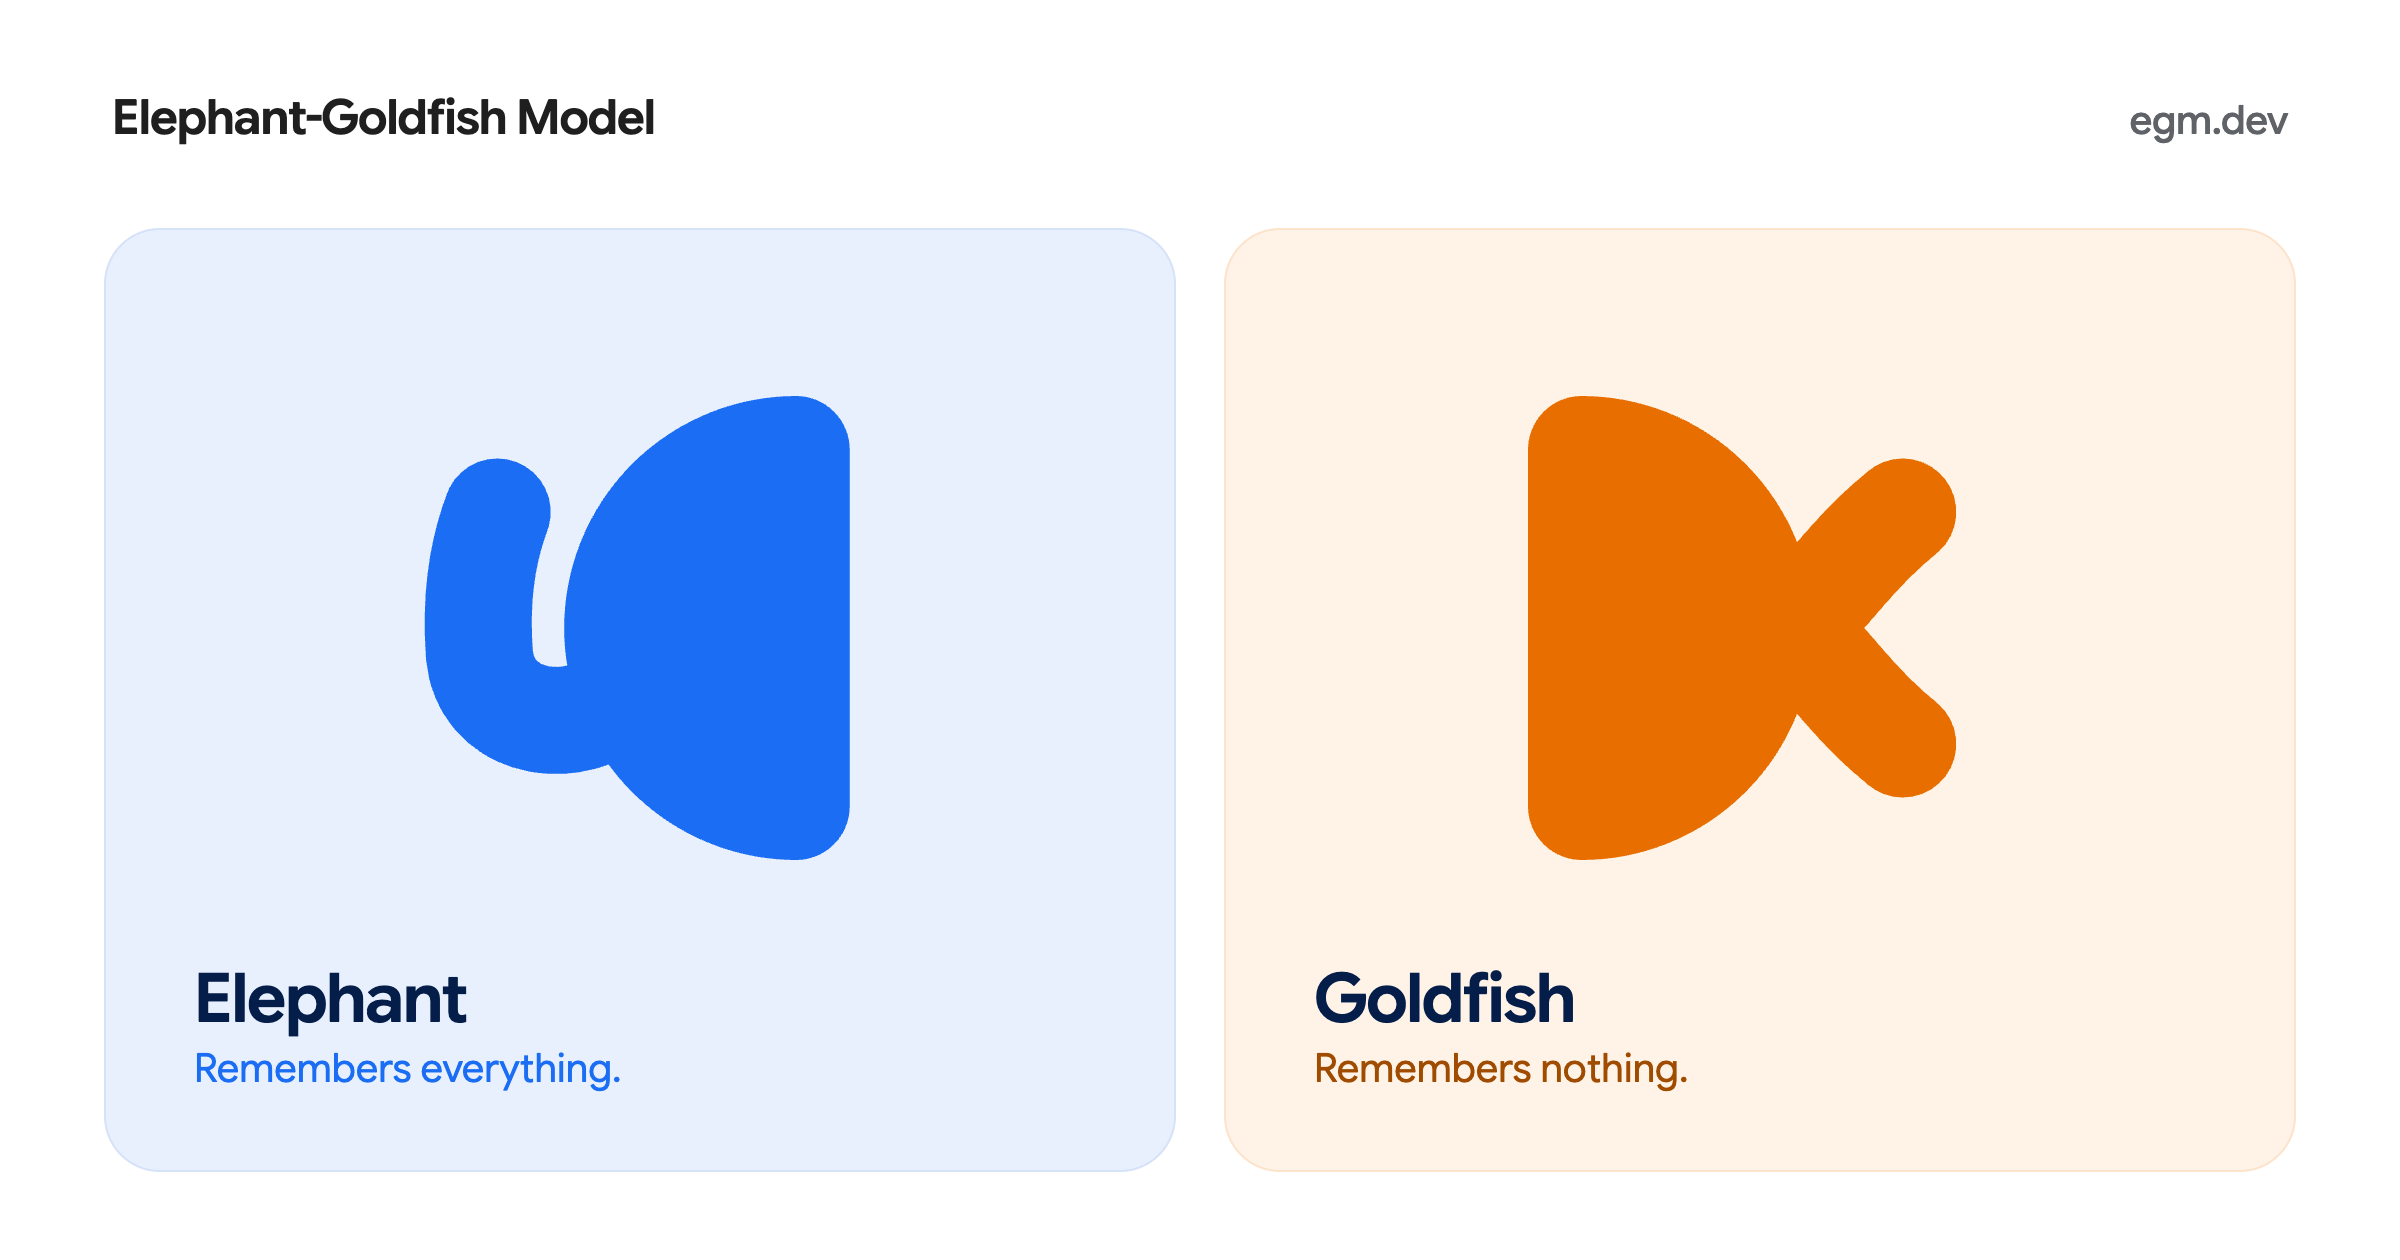
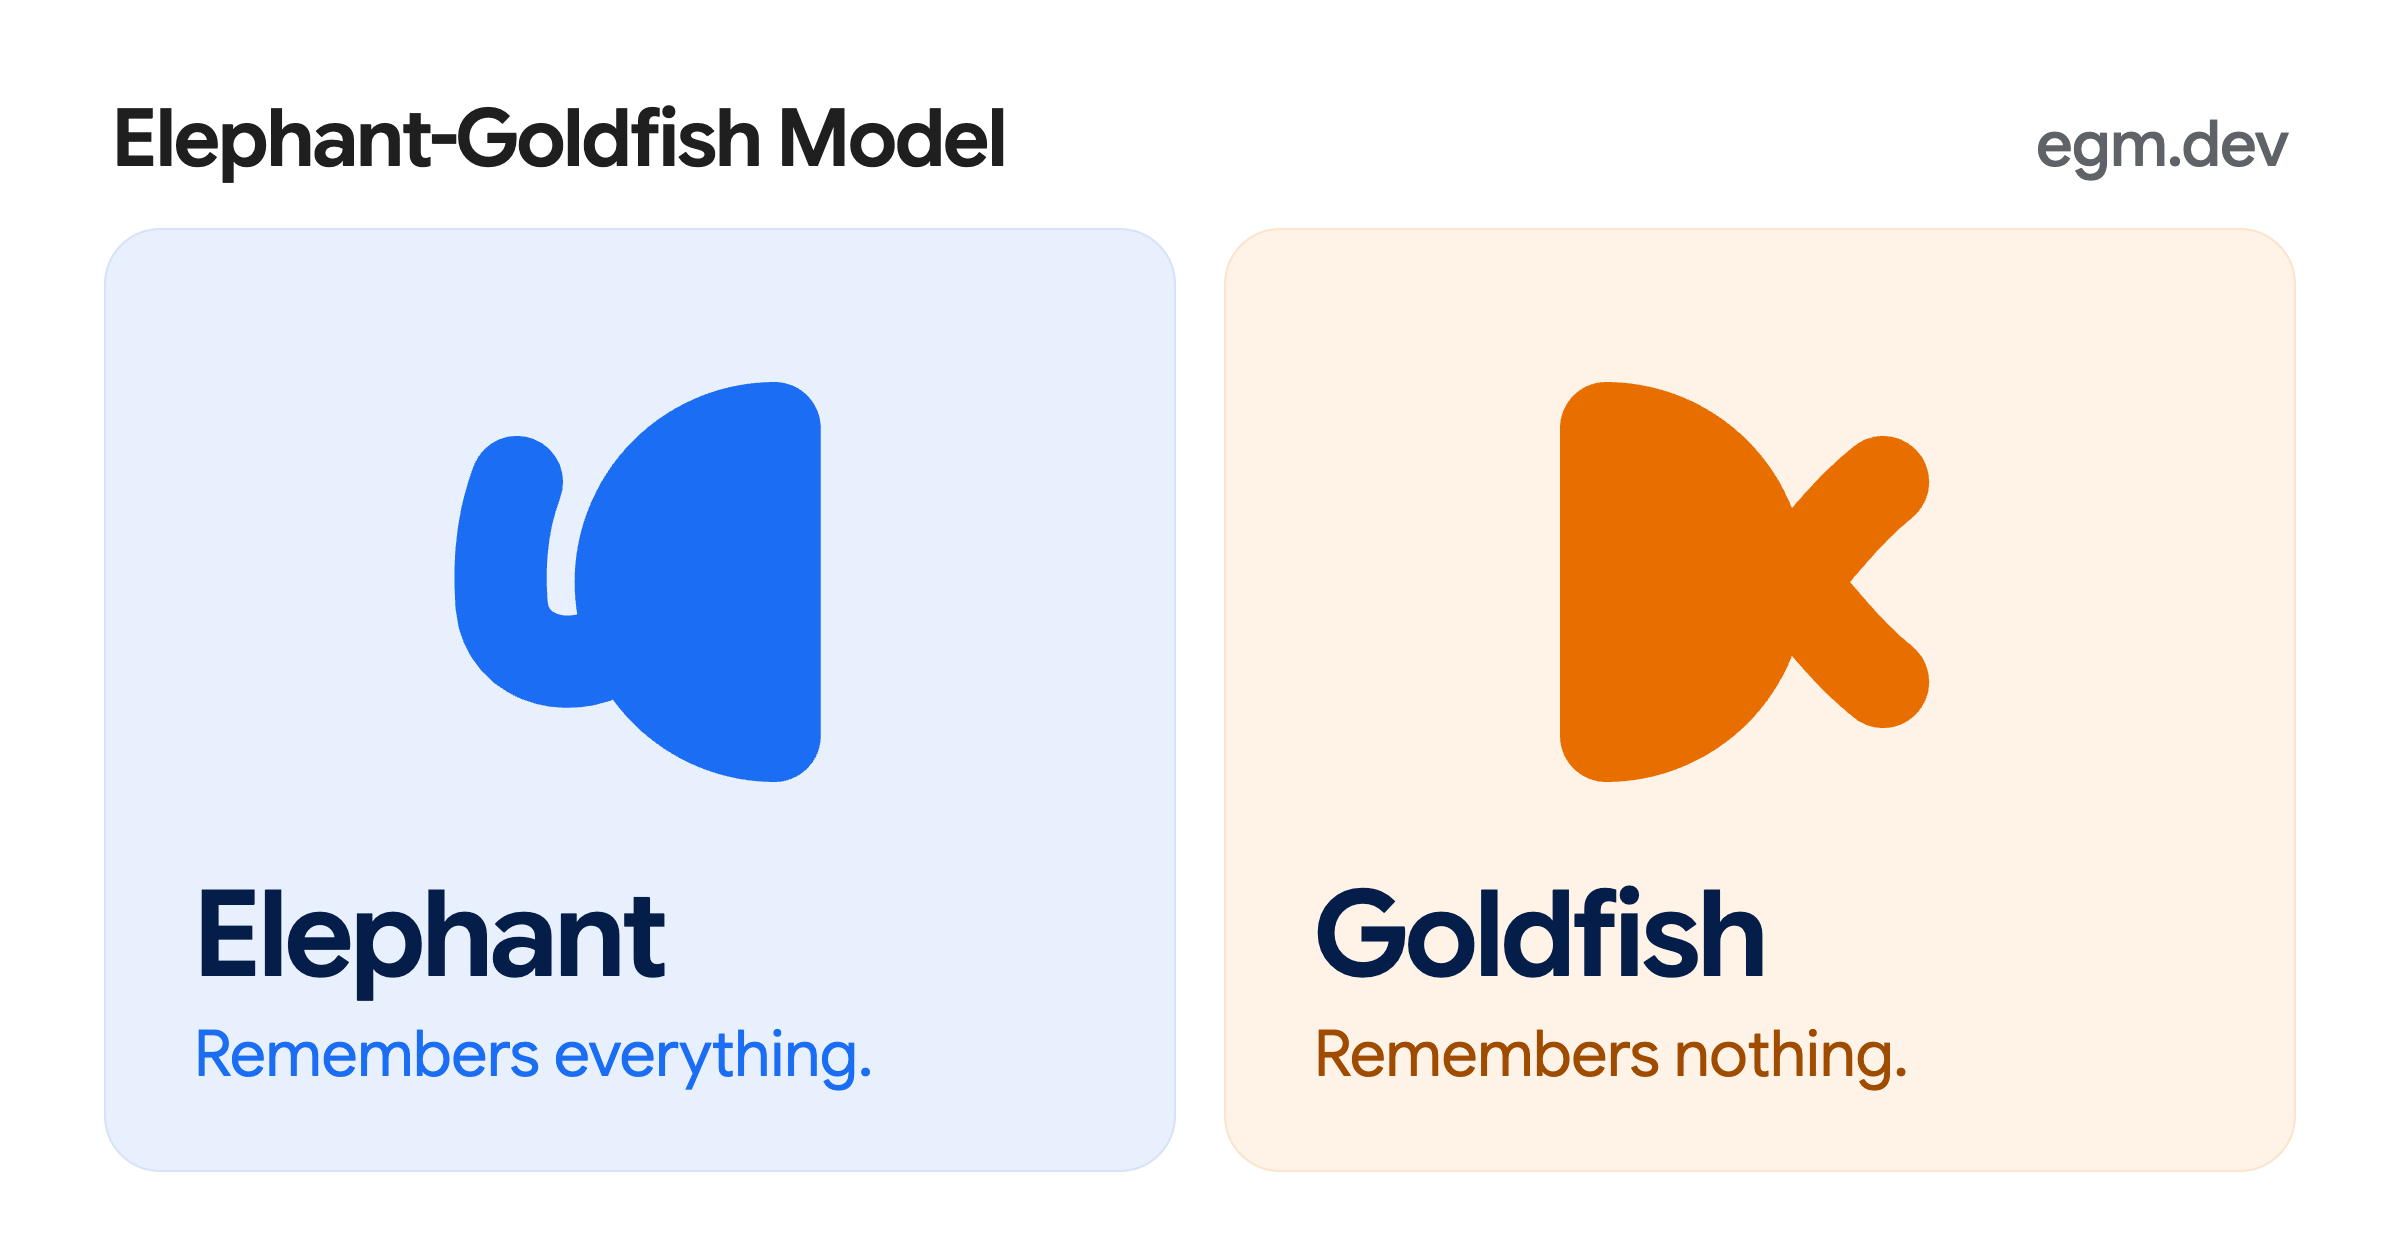
site: enlarge og.png type for feed-size previews
Link previews render the 1200x630 canvas at roughly half width, so the
20-34px type read as 10-15px. Brand 24->40, domain 20->32, card names
34->60, captions 20->32; mark 232->200 so the card bottoms still fit.

diff --git a/site/scripts/og.html b/site/scripts/og.html
@@ -52,13 +52,13 @@ limitations under the License.
         padding: 0 4px;
       }
       .brand {
-        font-size: 24px;
+        font-size: 40px;
         font-weight: 600;
         letter-spacing: -0.02em;
         color: var(--md-sys-color-on-surface);
       }
       .domain {
-        font-size: 20px;
+        font-size: 32px;
         font-weight: 500;
         color: var(--md-sys-color-on-surface-variant);
         letter-spacing: -0.01em;
@@ -94,17 +94,17 @@ limitations under the License.
       .card-bottom {
         display: flex;
         flex-direction: column;
-        gap: 4px;
+        gap: 6px;
       }
       .name {
-        font-size: 34px;
+        font-size: 60px;
         font-weight: 600;
         letter-spacing: -0.02em;
         color: #041e49;
         line-height: 1.1;
       }
       .desc {
-        font-size: 20px;
+        font-size: 32px;
         font-weight: 400;
         color: var(--egm-color-elephant);
       }
@@ -121,7 +121,7 @@ limitations under the License.
     <div class="cards">
       <div class="card card-el">
         <div class="stage">
-          <svg viewBox="1.60 6.8 10.4 10.4" width="232" height="232" aria-hidden="true">
+          <svg viewBox="1.60 6.8 10.4 10.4" width="200" height="200" aria-hidden="true">
             <path d="M10.30,6.80 A5.20,5.20 0 0 0 10.30,17.20 A1.20,1.20 0 0 0 11.50,16.00 L11.50,8.00 A1.20,1.20 0 0 0 10.30,6.80Z" fill="var(--egm-color-elephant)" />
             <path d="M7.20,12.00 C6.80,14.60 3.40,14.70 3.20,12.60 C3.10,11.20 3.30,10.20 3.60,9.40" fill="none" stroke="var(--egm-color-elephant)" stroke-width="2.40" stroke-linecap="round" stroke-linejoin="round" />
           </svg>
@@ -133,7 +133,7 @@ limitations under the License.
       </div>
       <div class="card card-gf">
         <div class="stage">
-          <svg viewBox="12.5 6.8 10.4 10.4" width="232" height="232" aria-hidden="true">
+          <svg viewBox="12.5 6.8 10.4 10.4" width="200" height="200" aria-hidden="true">
             <path d="M13.70,6.80 A5.20,5.20 0 0 1 13.70,17.20 A1.20,1.20 0 0 1 12.50,16.00 L12.50,8.00 A1.20,1.20 0 0 1 13.70,6.80Z" fill="var(--egm-color-goldfish)" />
             <path d="M16.80,12.00 L18.00,12.00 C18.80,12.00 19.40,10.60 20.90,9.40 M18.00,12.00 C18.80,12.00 19.40,13.40 20.90,14.60" fill="none" stroke="var(--egm-color-goldfish)" stroke-width="2.40" stroke-linecap="round" stroke-linejoin="round" />
           </svg>
